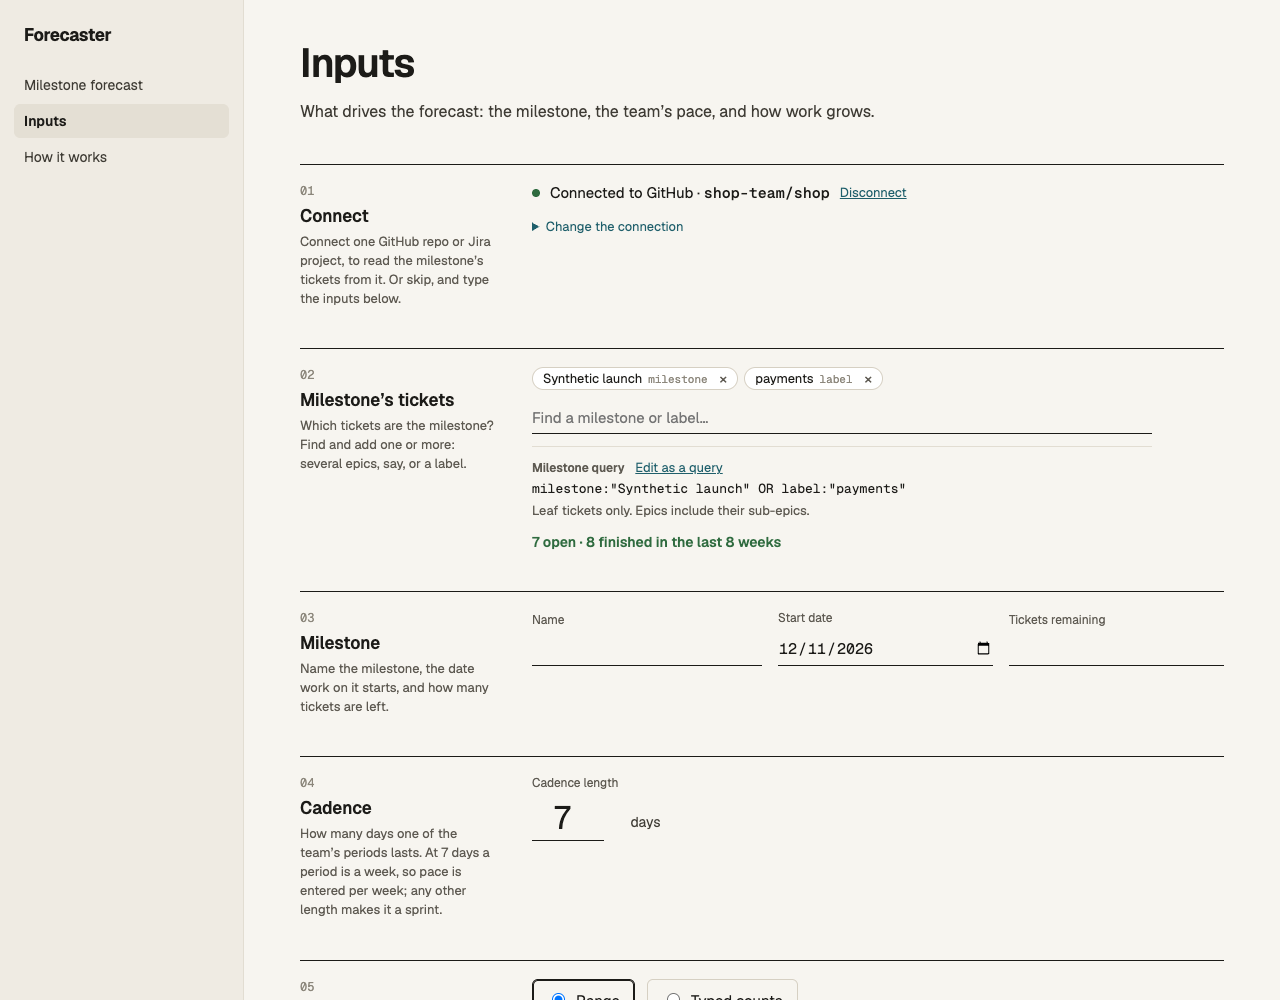
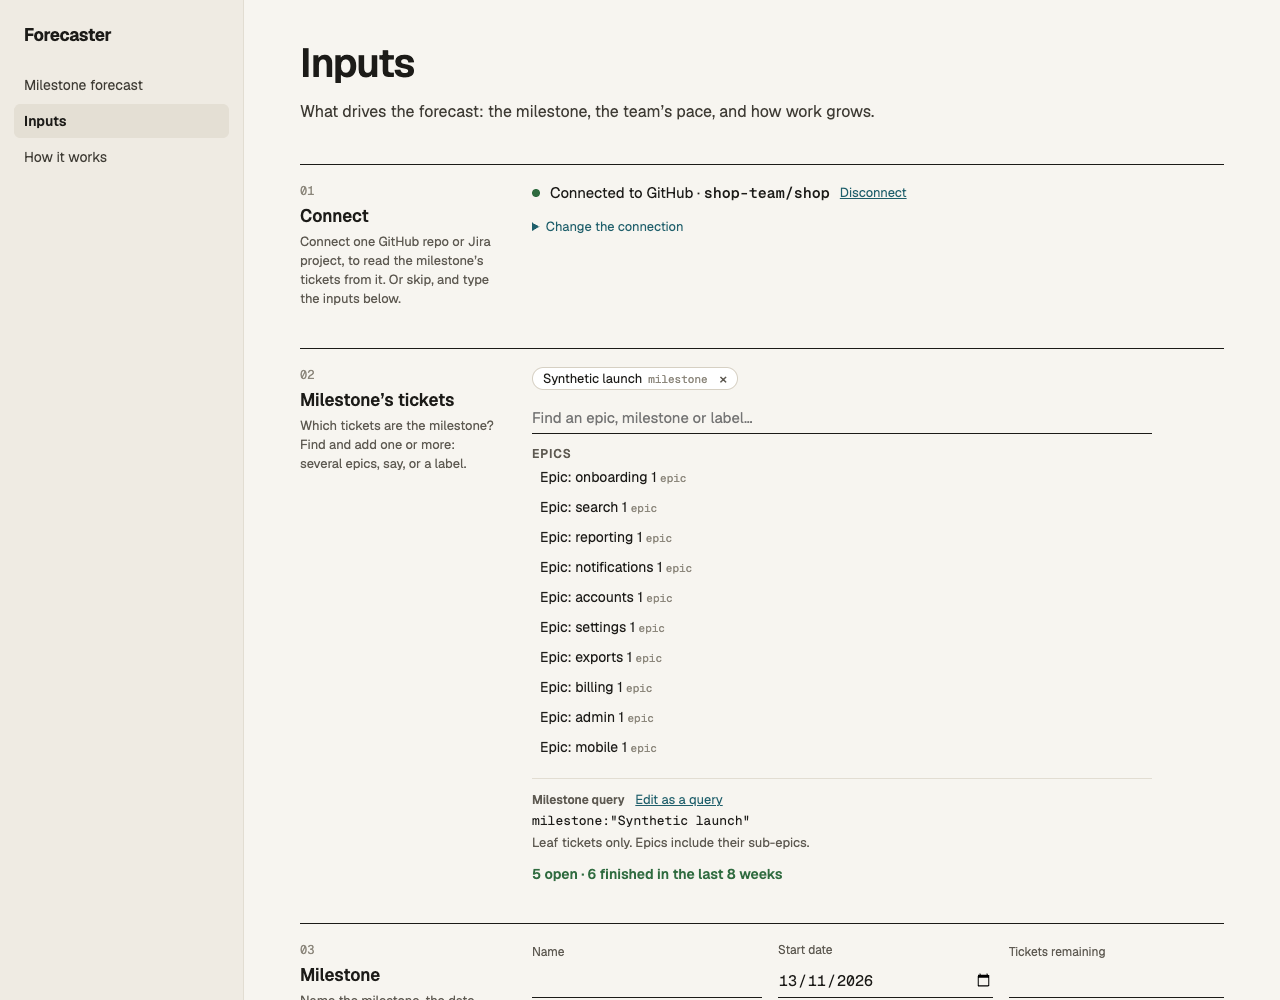
The Milestone step's lists scroll within the step; its demo screenshots taken again (#157 review)
Now the lists show as the step opens, a long one scrolls within it rather than pushing the screen down. #191 and
#196-#198's screenshots show the lists on opening, the incomplete read without a count, and Back to finding asking to
confirm (196-inputs-milestone-step-back-confirm.png).

diff --git a/src/app/html.ts b/src/app/html.ts
@@ -283,7 +283,7 @@ const STYLE = `
       width: 100%; font-size: 15px; color: var(--ink); background: transparent;
       border: 0; border-bottom: 1px solid var(--ink); border-radius: 0; padding: 6px 0;
     }
-    .found { display: flex; flex-direction: column; gap: 4px; }
+    .found { display: flex; flex-direction: column; gap: 4px; max-height: 320px; overflow-y: auto; }
     .found h3 { margin: 6px 0 2px; font-size: 12px; font-weight: 600; color: var(--muted); text-transform: uppercase; letter-spacing: 0.04em; }
     .found button { display: block; width: 100%; text-align: left; border: 0; background: none; min-height: 30px; font-size: 14px; padding: 0 8px; border-radius: 4px; cursor: pointer; }
     .found button:hover { background: var(--active); }
